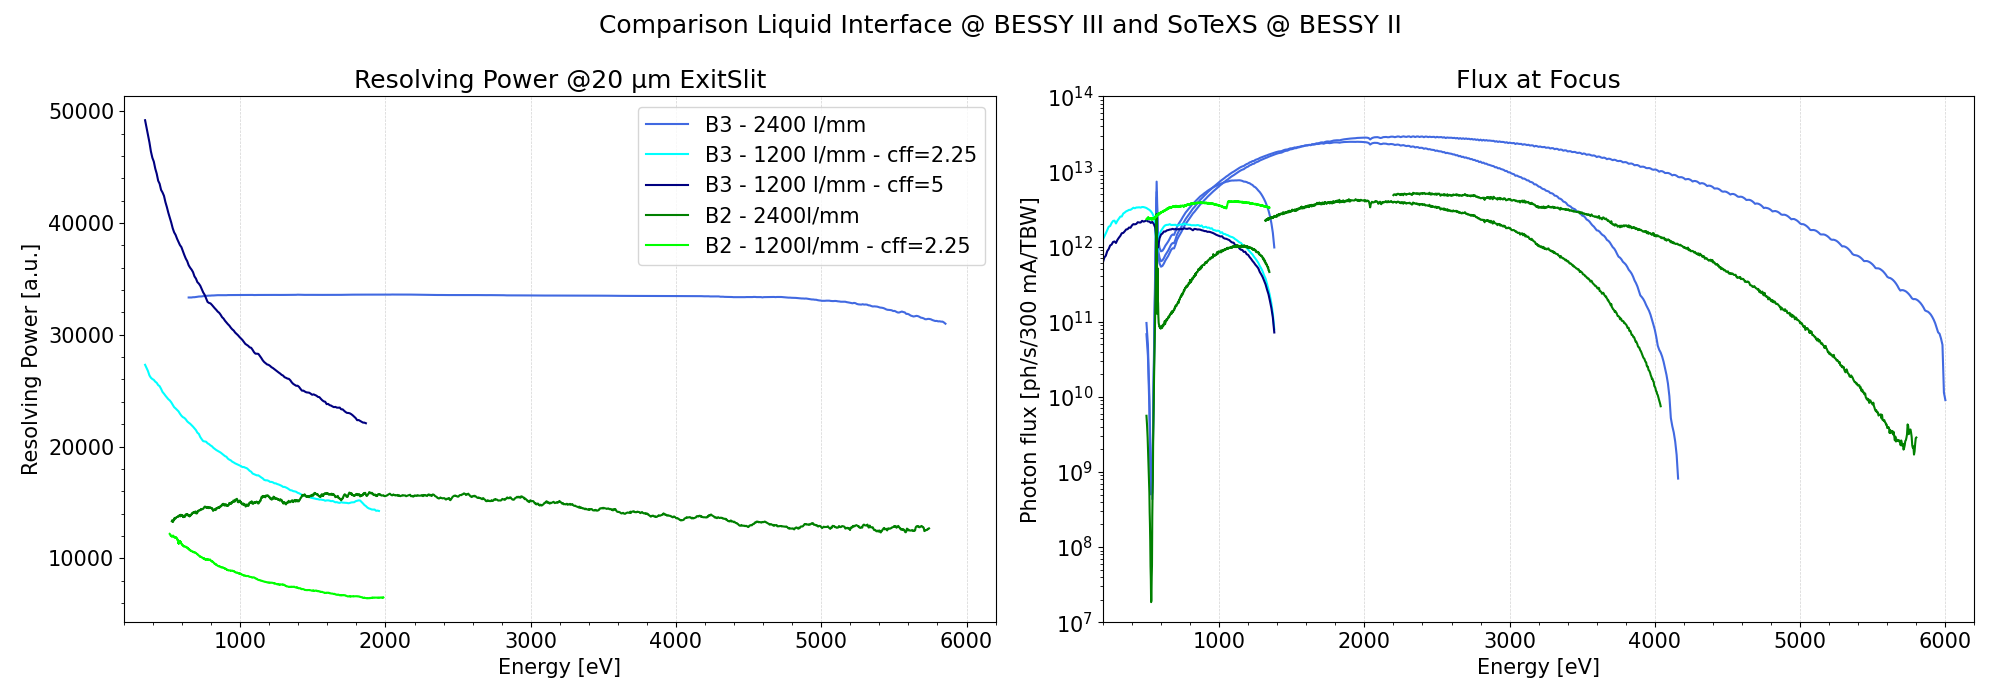
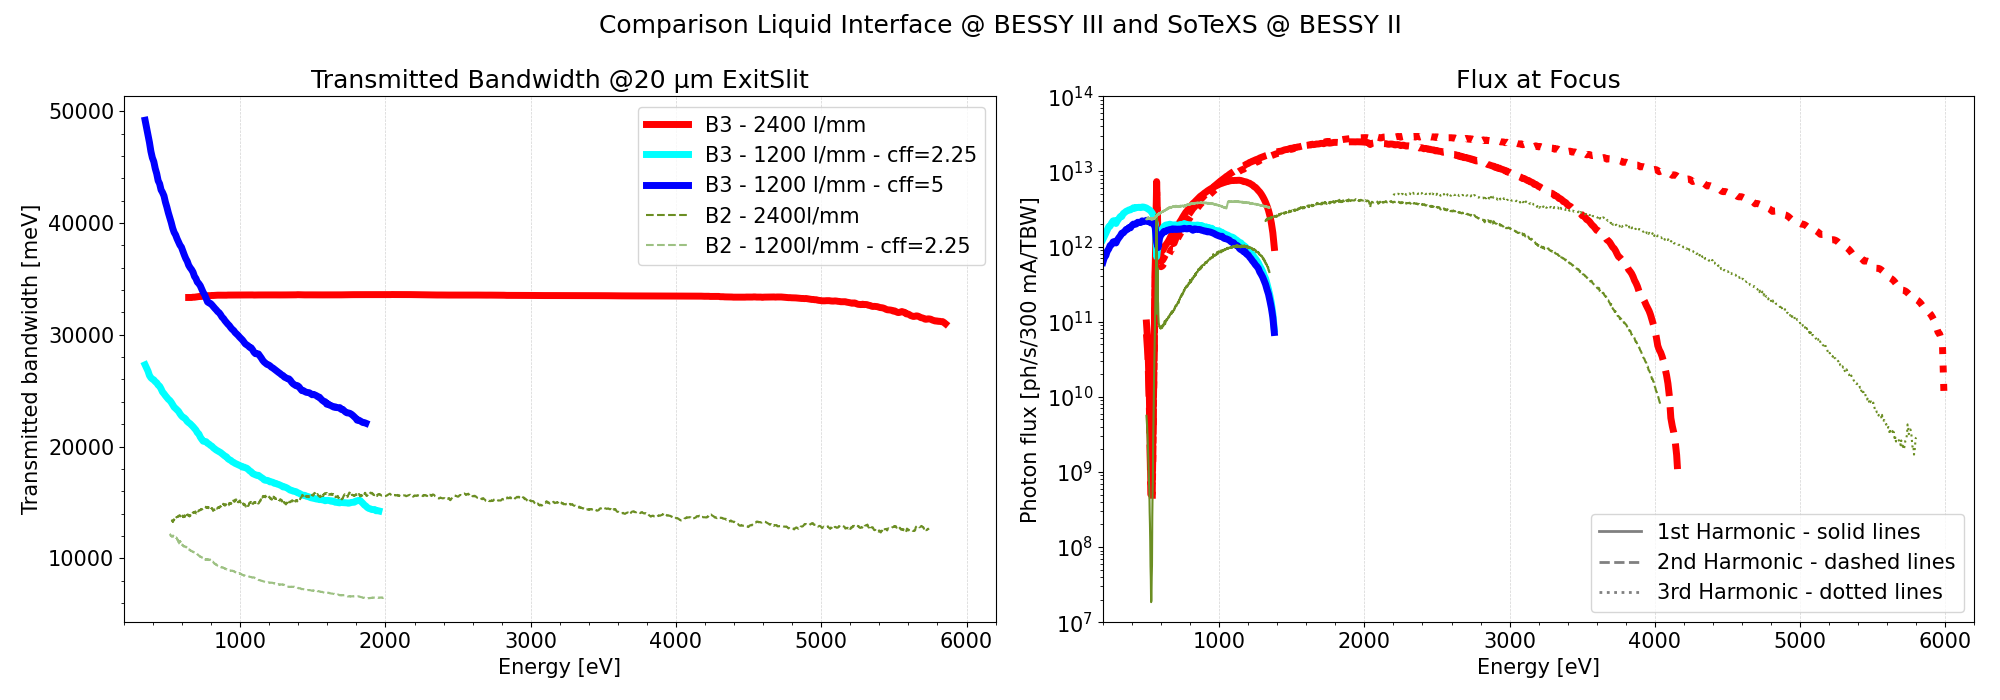
eval

diff --git a/beamlines/Signature3-Liquid_Interface/simulations/comparison_with_sotexs_BII/eval_2400_talk.py b/beamlines/Signature3-Liquid_Interface/simulations/comparison_with_sotexs_BII/eval_2400_talk.py
@@ -76,13 +76,13 @@ Pt, _ = get_reflectivity(Pt, E=E, theta=theta)
 ax1.plot(E, Ir, 'gold', label='Ir', alpha=0.5)
 ax1.plot(E, Cr, 'blue', label='Cr', alpha=0.5)
 ax1.plot(E, B4C, 'red', label='B4C', alpha=0.5)
-ax1.plot(E, IrCrB4C, 'black', label='IrCrB4C', linewidth=2)
-ax1.plot(E, Pt, 'grey', label='Pt', alpha=1, linewidth=2)
+ax1.plot(E, IrCrB4C, 'black', label='IrCrB4C', linewidth=5)
+ax1.plot(E, Pt, 'grey', label='Pt', alpha=1, linewidth=5)
 
 ax1.set_title('Mirror Coating Reflectivity @ 'f'{theta}° incident angle')
 ax1.set_xlabel('Energy [eV]')
 ax1.set_ylabel('Reflectivity [a.u.]')
-ax1.legend()
+ax1.legend('lower left')
 ax1.set_xlim(x_range)
 ax1.minorticks_on()
 ax1.grid(which='major', axis='x', linestyle='--', linewidth=0.5, color='lightgrey')
@@ -93,7 +93,7 @@ ax3 = axs[0]
 
 window = 20
 colors = ['red', 'blue', 'green']
-color_B2 = ['salmon', 'skyblue', 'lightgreen']
+color_B2 = ['salmon', 'royalblue', 'lightgreen']
 
 
 ax3 = axs[1]
@@ -101,11 +101,12 @@ for ind,harm in enumerate(harms):
     ax3.plot(undulator_3[f'Energy{harm}[eV]'], 
              undulator_3[f'Photons{harm}'],
              color=colors[ind], linestyle='solid',
+             linewidth=3,
              label=f'B3-Harm. {harm}')
 for ind,harm in enumerate(harms):
     ax3.plot(undulator_2[f'Energy{harm}[eV]'], 
              undulator_2[f'Photons{harm}'],
-             color=colors[ind], linestyle='solid',
+             color=color_B2[ind], linestyle='dashed',
              label=f'B2-Harm. {harm}')
     
 ax3.legend()
@@ -114,7 +115,14 @@ ax3.set_xlabel('Energy [eV]')
 ax3.set_ylabel('Ph/s/0.3A/0.1%BW')
 ax3.set_xlim(x_range)
 ax3.set_ylim(9e7, 5e15)
-ax3.set_title('IVUE42 @ BESSY III vs CPMU21 @ BESSY II')
+ax3.set_title('IVUE42 @ BESSY III vs CPMU20 @ BESSY II')
+custom_lines = [
+    Line2D([0], [0], color=colors[0], linestyle='solid', lw=2),
+    Line2D([0], [0], color=color_B2[0], linestyle='dashed', lw=2),
+]
+
+ax3.legend(custom_lines, ['B3 - solid lines', 'B2 - dashed lines'], loc='best')
+
 
 # SAVING
 # Ensure the "plot" folder exists
@@ -146,31 +154,34 @@ ax3.plot(mov_av(BL_df['PhotonEnergy'], window),
              mov_av(BL_df['Bandwidth']*1000, window),
              linestyle='solid',
              label=f'B3 - 2400 l/mm',
-             color='royalblue')
+             color='red',
+             linewidth=5,)
 
 ax3.plot(mov_av(BL_df_1200['PhotonEnergy'], window), 
              mov_av(BL_df_1200['Bandwidth']*1000, window),
              linestyle='solid',
              label=f'B3 - 1200 l/mm - cff=2.25',
-             color='cyan')
+             color='cyan',
+             linewidth=5,)
 
 ax3.plot(mov_av(BL_df_1200_5['PhotonEnergy'], window), 
              mov_av(BL_df_1200_5['Bandwidth']*1000, window),
              linestyle='solid',
              label=f'B3 - 1200 l/mm - cff=5',
-             color='navy')
+             color='blue',
+             linewidth=5,)
 
 ax3.plot(mov_av(BL_df_2['PhotonEnergy'], window), 
              mov_av(BL_df_2['Bandwidth']*1000, window),
-             linestyle='solid',
              label=f'B2 - 2400l/mm', 
-             color='green')
+             color='#6B8E23',
+             linestyle='dashed')
 
 ax3.plot(mov_av(BL_df_2_1200['PhotonEnergy'], window), 
              mov_av(BL_df_2_1200['Bandwidth']*1000, window),
-             linestyle='solid',
              label=f'B2 - 1200l/mm - cff=2.25', 
-             color='lime')
+             color='#9DC183',
+             linestyle='dashed')
 
 
 ax3.set_title(f'Transmitted Bandwidth @{int(SlitSize[0]*1000)} µm ExitSlit')
@@ -185,13 +196,15 @@ ax3.grid(which='major', axis='x', linestyle='--', linewidth=0.5, color='lightgre
 # BEAMLINE FLUX CURVE
 ax4 = axs[1]
 window = 1
+ls = ['solid', 'dashed', 'dotted']
 for ind,harm in enumerate(harms):
     Emin_harm = undulator_3[f'Energy{harm}[eV]'].min()
     Emax_harm = undulator_3[f'Energy{harm}[eV]'].max()
     filtered_df = BL_df[(BL_df['PhotonEnergy'] >= Emin_harm) & (BL_df['PhotonEnergy'] <= Emax_harm)]
     ax4.plot(mov_av(filtered_df['PhotonEnergy'], window), 
              mov_av(filtered_df[f'PhotonFlux{harm}'], window),
-             color='royalblue', linestyle='solid',
+             color='red', linestyle=ls[ind],
+             linewidth=5,
              label=f'B3 2400 l/mm')
 
 for ind,harm in enumerate([1]):
@@ -200,7 +213,8 @@ for ind,harm in enumerate([1]):
     filtered_df = BL_df_1200[(BL_df_1200['PhotonEnergy'] >= Emin_harm) & (BL_df_1200['PhotonEnergy'] <= Emax_harm)]
     ax4.plot(mov_av(filtered_df['PhotonEnergy'], window), 
              mov_av(filtered_df[f'PhotonFlux{harm}'], window),
-             color='cyan', linestyle='solid',
+             color='cyan', linestyle=ls[ind],
+             linewidth=5,
              label=f'B3 1200 l/mm')
 
 for ind,harm in enumerate([1]):
@@ -209,7 +223,8 @@ for ind,harm in enumerate([1]):
     filtered_df = BL_df_1200_5[(BL_df_1200_5['PhotonEnergy'] >= Emin_harm) & (BL_df_1200_5['PhotonEnergy'] <= Emax_harm)]
     ax4.plot(mov_av(filtered_df['PhotonEnergy'], window), 
              mov_av(filtered_df[f'PhotonFlux{harm}'], window),
-             color='navy', linestyle='solid',
+             color='blue', linestyle=ls[ind],
+             linewidth=5,
              label=f'B3 1200 l/mm - cff 5')    
     
 for ind,harm in enumerate(harms):    
@@ -218,7 +233,7 @@ for ind,harm in enumerate(harms):
     filtered_df = BL_df_2[(BL_df_2['PhotonEnergy'] >= Emin_harm) & (BL_df_2['PhotonEnergy'] <= Emax_harm)]
     ax4.plot(mov_av(filtered_df['PhotonEnergy'], window), 
                 mov_av(filtered_df[f'PhotonFlux{harm}'], window),
-                color='green', linestyle='solid',
+                color='#6B8E23', linestyle=ls[ind],
                 label=f'B2-Harm. {harm}')
 
 for ind,harm in enumerate([1]):
@@ -227,18 +242,20 @@ for ind,harm in enumerate([1]):
     filtered_df = BL_df_2_1200[(BL_df_2_1200['PhotonEnergy'] >= Emin_harm) & (BL_df_2_1200['PhotonEnergy'] <= Emax_harm)]
     ax4.plot(mov_av(filtered_df['PhotonEnergy'], window), 
              mov_av(filtered_df[f'PhotonFlux{harm}'], window),
-             color='lime', linestyle='solid',
+             color='#9DC183', linestyle=ls[ind],
              label=f'B2 1200 l/mm')    
 
 ax4.set_title('Flux at Focus')
 ax4.set_xlabel('Energy [eV]')
 ax4.set_ylabel('Photon flux [ph/s/300 mA/TBW]')
 custom_lines = [
-    Line2D([0], [0], color='royalblue', linestyle='solid', lw=2),
-    Line2D([0], [0], color='cyan', linestyle='solid', lw=2),
-    Line2D([0], [0], color='green', linestyle='solid', lw=2),
-    Line2D([0], [0], color='lime', linestyle='solid', lw=2)
+    Line2D([0], [0], color='grey', linestyle='solid', lw=2),
+    Line2D([0], [0], color='grey', linestyle='dashed', lw=2),
+    Line2D([0], [0], color='grey', linestyle='dotted', lw=2),
 ]
+
+ax4.legend(custom_lines, ['1st Harmonic - solid lines', '2nd Harmonic - dashed lines', '3rd Harmonic - dotted lines'], loc='best')
+
 
 # ax4.legend(custom_lines, ['B3 - 2400 l/mm', 'B3 - 1200 l/mm', 'B2 - 2400 l/mm', 'B2 - 1200 l/mm'], loc='best')
 ax4.set_xlim(x_range)
@@ -271,36 +288,39 @@ ax3.plot(mov_av(BL_df['PhotonEnergy'], window),
              mov_av(BL_df['PhotonEnergy']/BL_df['Bandwidth'], window),
              linestyle='solid',
              label=f'B3 - 2400 l/mm',
-             color='royalblue')
+             color='red',
+             linewidth=5,)
 
 ax3.plot(mov_av(BL_df_1200['PhotonEnergy'], window), 
              mov_av(BL_df_1200['PhotonEnergy']/BL_df_1200['Bandwidth'], window),
              linestyle='solid',
              label=f'B3 - 1200 l/mm - cff=2.25',
-             color='cyan')
+             color='cyan',
+             linewidth=5,)
 
 ax3.plot(mov_av(BL_df_1200_5['PhotonEnergy'], window), 
              mov_av(BL_df_1200_5['PhotonEnergy']/BL_df_1200_5['Bandwidth'], window),
              linestyle='solid',
              label=f'B3 - 1200 l/mm - cff=5',
-             color='navy')
+             color='blue',
+             linewidth=5,)
 
 ax3.plot(mov_av(BL_df_2['PhotonEnergy'], window), 
              mov_av(BL_df_2['PhotonEnergy']/BL_df_2['Bandwidth'], window),
-             linestyle='solid',
              label=f'B2 - 2400l/mm', 
-             color='green')
+             color='#6B8E23',
+             linestyle='dashed')
 
 ax3.plot(mov_av(BL_df_2_1200['PhotonEnergy'], window), 
              mov_av(BL_df_2_1200['PhotonEnergy']/BL_df_2_1200['Bandwidth'], window),
-             linestyle='solid',
              label=f'B2 - 1200l/mm - cff=2.25', 
-             color='lime')
+             color='#9DC183',
+             linestyle='dashed')
 
 
-ax3.set_title(f'Resolving Power @{int(SlitSize[0]*1000)} µm ExitSlit')
+ax3.set_title(f'Transmitted Bandwidth @{int(SlitSize[0]*1000)} µm ExitSlit')
 ax3.set_xlabel('Energy [eV]')
-ax3.set_ylabel('Resolving Power [a.u.]')
+ax3.set_ylabel('Transmitted bandwidth [meV]')
 ax3.legend(loc='best')
 ax3.set_xlim(x_range)
 ax3.minorticks_on()
@@ -310,13 +330,15 @@ ax3.grid(which='major', axis='x', linestyle='--', linewidth=0.5, color='lightgre
 # BEAMLINE FLUX CURVE
 ax4 = axs[1]
 window = 1
+ls = ['solid', 'dashed', 'dotted']
 for ind,harm in enumerate(harms):
     Emin_harm = undulator_3[f'Energy{harm}[eV]'].min()
     Emax_harm = undulator_3[f'Energy{harm}[eV]'].max()
     filtered_df = BL_df[(BL_df['PhotonEnergy'] >= Emin_harm) & (BL_df['PhotonEnergy'] <= Emax_harm)]
     ax4.plot(mov_av(filtered_df['PhotonEnergy'], window), 
              mov_av(filtered_df[f'PhotonFlux{harm}'], window),
-             color='royalblue', linestyle='solid',
+             color='red', linestyle=ls[ind],
+             linewidth=5,
              label=f'B3 2400 l/mm')
 
 for ind,harm in enumerate([1]):
@@ -325,18 +347,19 @@ for ind,harm in enumerate([1]):
     filtered_df = BL_df_1200[(BL_df_1200['PhotonEnergy'] >= Emin_harm) & (BL_df_1200['PhotonEnergy'] <= Emax_harm)]
     ax4.plot(mov_av(filtered_df['PhotonEnergy'], window), 
              mov_av(filtered_df[f'PhotonFlux{harm}'], window),
-             color='cyan', linestyle='solid',
-             label=f'B3 1200 l/mm cff 2.25')
-    
+             color='cyan', linestyle=ls[ind],
+             linewidth=5,
+             label=f'B3 1200 l/mm')
+
 for ind,harm in enumerate([1]):
     Emin_harm = undulator_3[f'Energy{harm}[eV]'].min()
     Emax_harm = undulator_3[f'Energy{harm}[eV]'].max()
     filtered_df = BL_df_1200_5[(BL_df_1200_5['PhotonEnergy'] >= Emin_harm) & (BL_df_1200_5['PhotonEnergy'] <= Emax_harm)]
     ax4.plot(mov_av(filtered_df['PhotonEnergy'], window), 
              mov_av(filtered_df[f'PhotonFlux{harm}'], window),
-             color='navy', linestyle='solid',
-             label=f'B3 1200 l/mm - cff 5')
-    
+             color='blue', linestyle=ls[ind],
+             linewidth=5,
+             label=f'B3 1200 l/mm - cff 5')    
     
 for ind,harm in enumerate(harms):    
     Emin_harm = undulator_2[f'Energy{harm}[eV]'].min()
@@ -344,7 +367,7 @@ for ind,harm in enumerate(harms):
     filtered_df = BL_df_2[(BL_df_2['PhotonEnergy'] >= Emin_harm) & (BL_df_2['PhotonEnergy'] <= Emax_harm)]
     ax4.plot(mov_av(filtered_df['PhotonEnergy'], window), 
                 mov_av(filtered_df[f'PhotonFlux{harm}'], window),
-                color='green', linestyle='solid',
+                color='#6B8E23', linestyle=ls[ind],
                 label=f'B2-Harm. {harm}')
 
 for ind,harm in enumerate([1]):
@@ -353,18 +376,20 @@ for ind,harm in enumerate([1]):
     filtered_df = BL_df_2_1200[(BL_df_2_1200['PhotonEnergy'] >= Emin_harm) & (BL_df_2_1200['PhotonEnergy'] <= Emax_harm)]
     ax4.plot(mov_av(filtered_df['PhotonEnergy'], window), 
              mov_av(filtered_df[f'PhotonFlux{harm}'], window),
-             color='lime', linestyle='solid',
+             color='#9DC183', linestyle=ls[ind],
              label=f'B2 1200 l/mm')    
 
 ax4.set_title('Flux at Focus')
 ax4.set_xlabel('Energy [eV]')
 ax4.set_ylabel('Photon flux [ph/s/300 mA/TBW]')
 custom_lines = [
-    Line2D([0], [0], color='royalblue', linestyle='solid', lw=2),
-    Line2D([0], [0], color='cyan', linestyle='solid', lw=2),
-    Line2D([0], [0], color='green', linestyle='solid', lw=2),
-    Line2D([0], [0], color='lime', linestyle='solid', lw=2)
+    Line2D([0], [0], color='grey', linestyle='solid', lw=2),
+    Line2D([0], [0], color='grey', linestyle='dashed', lw=2),
+    Line2D([0], [0], color='grey', linestyle='dotted', lw=2),
 ]
+
+ax4.legend(custom_lines, ['1st Harmonic - solid lines', '2nd Harmonic - dashed lines', '3rd Harmonic - dotted lines'], loc='best')
+
 
 # ax4.legend(custom_lines, ['B3 - 2400 l/mm', 'B3 - 1200 l/mm', 'B2 - 2400 l/mm', 'B2 - 1200 l/mm'], loc='best')
 ax4.set_xlim(x_range)
